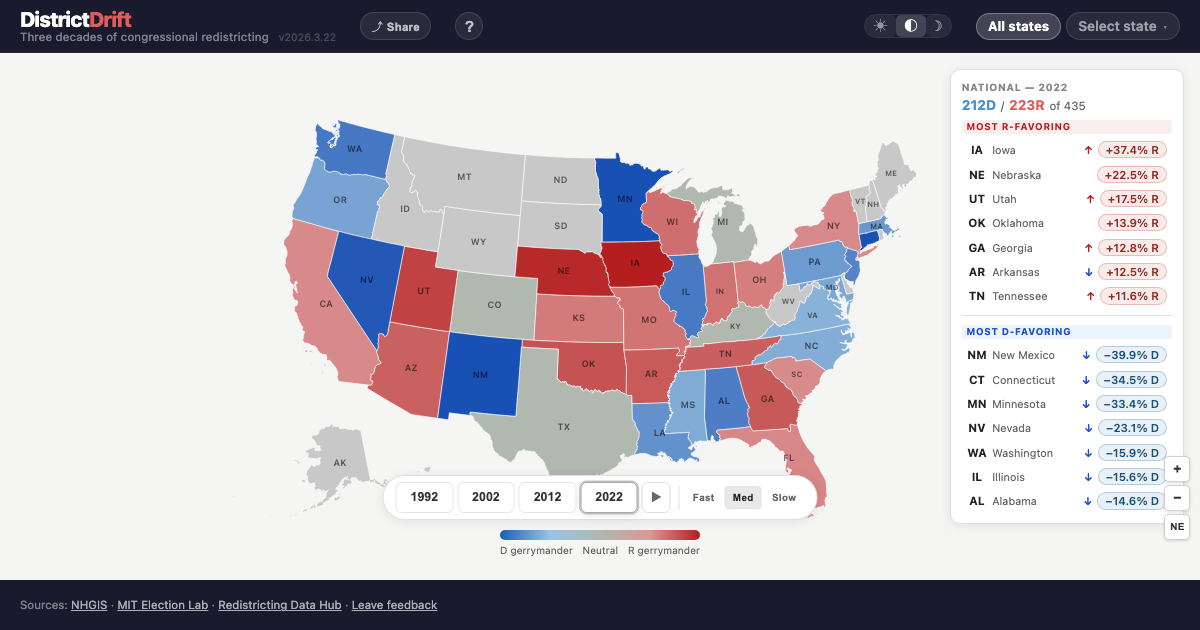
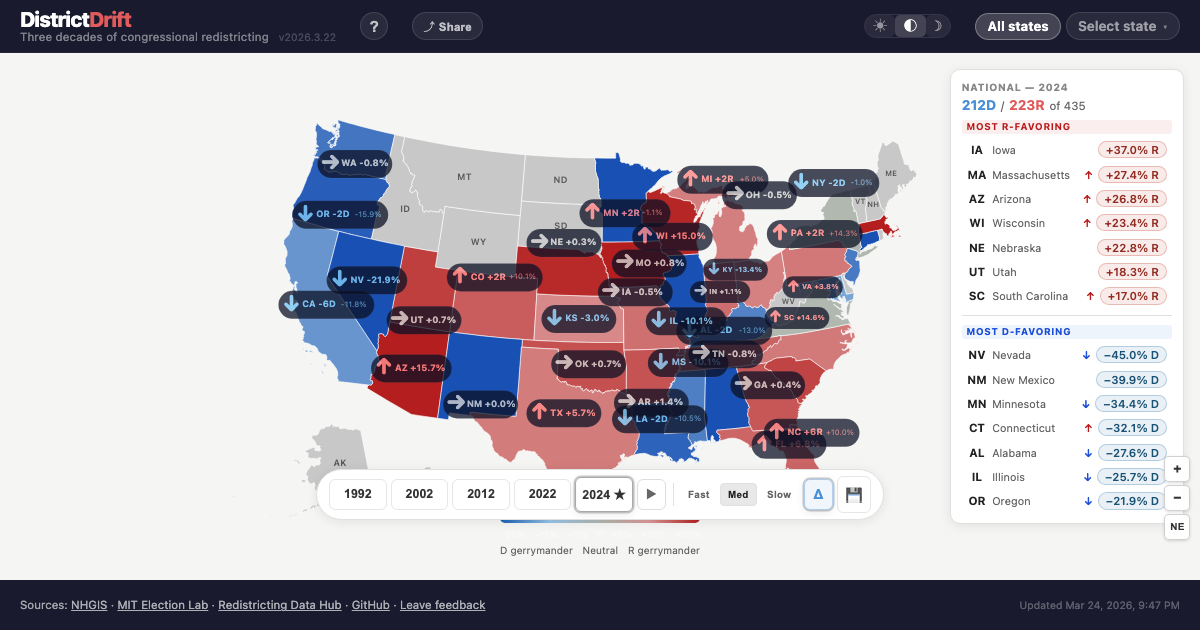
Three improvements: snap card keyboard nav, 2024 events, OG image refresh
Snap card keyboard nav:
- Arrow keys navigate between cards in both panels (left/right in horizontal
  layout, up/down/left/right in vertical)
- Containers get tabindex=0, role=region, aria-label for focus and a11y

Events data — 2024 cycle entries for all four VRA/remap states:
- AL: Remedial Plan 3 (Milligan v. Allen), Shomari Figures wins CD-2,
  Alabama's first two simultaneous Black representatives
- GA: Pendergrass v. Raffensperger remedial CD-6, Lucy McBath wins,
  11th Circuit CD-7 appeal pending
- LA: SB 8 creates Shreveport-Baton Rouge CD-6, Cleo Fields returns,
  Louisiana v. Callais (No. 24-109) SCOTUS challenge pending
- NC: SB 757 produces 10R-4D, 6-seat swing, Don Davis survives narrowly

OG image: regenerated at 2024 with dark pills visible

diff --git a/web/src/lib/events.ts b/web/src/lib/events.ts
@@ -649,6 +649,17 @@ export const CYCLE_EVENTS: Record<string, Record<number, CycleEvent[]>> = {
         detail: 'Following the Pendergrass ruling, the Georgia legislature enacts new congressional maps creating an additional majority-Black district in the Atlanta suburbs. The remedial maps are used in the 2024 elections, shifting one seat toward Democrats and producing a 9–5 Republican delegation — unchanged in seat count despite the new district lines.',
       },
     ],
+    2024: [
+      {
+        title: 'Lucy McBath wins redrawn CD-6 under Pendergrass remedial maps',
+        detail: 'Under remedial maps enacted December 2023 (court-approved December 28) in Pendergrass v. Raffensperger (N.D. Ga.), CD-6 is redrawn as a majority-Black district anchored in Cobb, Douglas, Fayette, and Fulton counties west/southwest of Atlanta. Lucy McBath (D) wins the redrawn seat; the overall 9R-5D delegation is unchanged in total count.',
+        url: 'https://redistricting.lls.edu/case/pendergrass-v-raffensperger/',
+      },
+      {
+        title: 'CD-7 dismantlement challenged; 11th Circuit appeal pending',
+        detail: 'The legislature\'s remedial maps dismantled the existing CD-7 (Gwinnett County), a coalition minority opportunity district east of Atlanta, arguing the two changes balanced each other. Plaintiffs contend that trading one majority-minority district for another is itself a VRA violation. The 11th Circuit Court of Appeals heard argument in early 2025; a ruling could affect Georgia\'s maps for 2026.',
+      },
+    ],
   },
 
   AZ: {
@@ -777,6 +788,16 @@ export const CYCLE_EVENTS: Record<string, Record<number, CycleEvent[]>> = {
       {
         title: 'Harper reversed; aggressive new maps enacted for 2024',
         detail: 'After Republicans gain a supermajority and the NC Supreme Court\'s composition shifts, the court reverses Harper v. Hall in April 2023. New, heavily Republican-leaning congressional maps are enacted and used in the 2024 elections, producing a 10–4 Republican delegation.',
+      },
+    ],
+    2024: [
+      {
+        title: 'Republicans win 10 of 14 seats under SB 757',
+        detail: 'The SB 757 partisan remap (signed October 2023) produces a 10R-4D delegation as designed. Five newly drawn Republican seats are won by new members: Tim Moore, Addison McDowell, Mark Harris, Pat Harrigan, and Brad Knott. The only competitive race is CD-1, where incumbent Don Davis (D) narrowly survives 49.5%–47.9% against Republican Laurie Buckhout.',
+      },
+      {
+        title: 'NC swings from 7-7 to 10-4 in a single election',
+        detail: 'The shift from the 2022 result (7D-7R under court-ordered fair maps) to 2024 (4D-10R under the SB 757 remap) is a net 6-seat partisan swing — the single largest congressional gerrymander payoff of the 2024 cycle. Federal litigation challenging SB 757 continues but faces high hurdles after Rucho v. Common Cause (2019) foreclosed federal partisan gerrymandering claims, and the NC Supreme Court has already barred the state constitutional path.',
       },
     ],
   },
@@ -1137,6 +1158,16 @@ export const CYCLE_EVENTS: Record<string, Record<number, CycleEvent[]>> = {
         title: '⚖ Allen v. Milligan — SCOTUS orders second majority-Black district',
         detail: 'In a landmark 5-4 ruling (June 8, 2023), Chief Justice Roberts joined the liberal justices to hold that Alabama\'s maps likely violate Section 2 of the Voting Rights Act. The Court rejects Alabama\'s argument that race-neutral redistricting criteria should presumptively control, reaffirming the Gingles framework for vote-dilution claims. Remedial maps for 2024 create a second majority-Black district in the southwestern "Black Belt" region, producing a 2-5 Democratic-Republican split.',
         url: 'https://www.supremecourt.gov/opinions/22pdf/21-1086_1co6.pdf',
+      },
+    ],
+    2024: [
+      {
+        title: 'Remedial CD-2 enacted; court orders Remedial Plan 3 for 2024 only',
+        detail: 'Following Allen v. Milligan, the three-judge panel in Milligan v. Allen (N.D. Ala.) rejected the legislature\'s non-compliant remedial attempt and on October 5, 2023 ordered Remedial Plan 3 — drawn by a special master — for use in the 2024 election only. CD-2, previously a majority-white Republican seat covering the Black Belt counties and the Mobile corridor, was redrawn to approximately 49% Black voting-age population.',
+      },
+      {
+        title: 'Shomari Figures wins CD-2; Alabama elects two Black members simultaneously for the first time',
+        detail: 'Democrat Shomari Figures wins the remedially redrawn CD-2 with ~54.5% of the vote, defeating Republican Caroleene Dobson. Combined with Terri Sewell\'s continued hold on CD-7, Alabama sends two Black representatives to Congress simultaneously for the first time — the first since 2008 that Alabama elected two Democrats to Congress. The remedial map was ordered for 2024 only; the Alabama congressional map for 2026 remains unresolved.',
       },
     ],
   },
@@ -1524,8 +1555,19 @@ export const CYCLE_EVENTS: Record<string, Record<number, CycleEvent[]>> = {
       },
       {
         title: '⚖ Robinson v. Ardoin — VRA orders second majority-Black district',
-        detail: 'A federal district court rules in Robinson v. Ardoin that Louisiana\'s maps likely violate Section 2 of the Voting Rights Act by failing to draw a second majority-Black district. Following Allen v. Milligan (2023), the court orders Louisiana to redraw its maps. Remedial maps for 2024 create a second majority-Black district in the Baton Rouge–New Orleans corridor, producing a 2-4 Democratic-Republican split.',
+        detail: 'A federal district court rules in Robinson v. Ardoin that Louisiana\'s maps likely violate Section 2 of the Voting Rights Act by failing to draw a second majority-Black district. Following Allen v. Milligan (2023), the court orders Louisiana to redraw its maps. Remedial maps for 2024 create a second majority-Black district in the Shreveport–Baton Rouge corridor, producing a 2-4 Democratic-Republican split.',
         url: 'https://www.naacpldf.org/case-issue/robinson-v-ardoin/',
+      },
+    ],
+    2024: [
+      {
+        title: 'Cleo Fields returns to Congress in newly drawn CD-6',
+        detail: 'The Louisiana legislature passes SB 8 (signed January 2024) under court deadline, creating a second majority-Black district — CD-6 — running from Shreveport through Alexandria and Lafayette to Baton Rouge. Cleo Fields (D) wins the seat, returning to Congress three decades after his earlier term (1993–1997), which was itself won in a VRA-mandated majority-Black district that was subsequently dismantled by litigation. Louisiana\'s delegation becomes 2D-4R.',
+      },
+      {
+        title: '⚖ Louisiana v. Callais — SCOTUS weighs whether VRA compliance violates the 14th Amendment',
+        detail: 'White voters file Callais v. Landry arguing SB 8 is an unconstitutional racial gerrymander under the Equal Protection Clause. The Supreme Court accepts Louisiana v. Callais (No. 24-109) and on June 27, 2025 orders reargument, signaling the justices are divided over whether creating majority-minority districts to satisfy VRA Section 2 can itself violate the Constitution. Louisiana\'s 2026 congressional map remains uncertain pending a final ruling.',
+        url: 'https://www.scotusblog.com/case-files/cases/louisiana-v-callais/',
       },
     ],
   },

diff --git a/web/src/routes/+page.svelte b/web/src/routes/+page.svelte
@@ -464,6 +464,13 @@
   function onStateScrollEnd(e: Event) { stateCardIdx = snapIdx(e.target as HTMLElement); }
   function onDistScrollEnd(e: Event)  { distCardIdx  = snapIdx(e.target as HTMLElement); }
 
+  function snapKeydown(e: KeyboardEvent, el: HTMLElement | null, idx: number, count: number) {
+    const fwd  = panelLayout === 'vertical' ? ['ArrowDown', 'ArrowRight'] : ['ArrowRight'];
+    const back = panelLayout === 'vertical' ? ['ArrowUp',   'ArrowLeft']  : ['ArrowLeft'];
+    if (fwd.includes(e.key) && idx < count - 1)  { e.preventDefault(); jumpToCard(el, idx + 1); }
+    if (back.includes(e.key) && idx > 0)          { e.preventDefault(); jumpToCard(el, idx - 1); }
+  }
+
   function jumpToCard(el: HTMLElement | null, idx: number) {
     if (!el) return;
     const cards = Array.from(el.querySelectorAll<HTMLElement>(':scope > .snap-card'));
@@ -972,7 +979,9 @@
                 {/each}
               </nav>
             {/if}
-            <div class="snap-cards snap-cards-state" bind:this={stateCardsEl} onscroll={onStateScroll} onscrollend={onStateScrollEnd}>
+            <div class="snap-cards snap-cards-state" bind:this={stateCardsEl} onscroll={onStateScroll} onscrollend={onStateScrollEnd}
+              tabindex="0" role="region" aria-label="State statistics"
+              onkeydown={(e) => snapKeydown(e, stateCardsEl, stateCardIdx, stateCardLabels.length)}>
               <!-- Card: Key stats -->
               <div class="snap-card">
                 <p class="snap-card-title">
@@ -1125,7 +1134,9 @@
                     onclick={() => jumpToCard(distCardsEl, i)}>{label}</button>
                 {/each}
               </nav>
-              <div class="snap-cards snap-cards-district" bind:this={distCardsEl} onscroll={onDistScroll} onscrollend={onDistScrollEnd}>
+              <div class="snap-cards snap-cards-district" bind:this={distCardsEl} onscroll={onDistScroll} onscrollend={onDistScrollEnd}
+                tabindex="0" role="region" aria-label="District details"
+                onkeydown={(e) => snapKeydown(e, distCardsEl, distCardIdx, 3)}>
                 <!-- Card: Partisan -->
                 <div class="snap-card">
                   <p class="snap-card-title">Partisan</p>

diff --git a/web/scripts/og-image.js b/web/scripts/og-image.js
@@ -12,7 +12,7 @@ import { chromium } from 'playwright';
 import { spawn } from 'child_process';
 
 const PORT = 4174; // use a non-default port to avoid conflicts with running dev servers
-const URL  = `http://localhost:${PORT}/?v=nation&y=2022`;
+const URL  = `http://localhost:${PORT}/?v=nation&y=2024`;
 const OUT  = 'static/og-image.png';
 const W    = 1200;
 const H    = 630;
